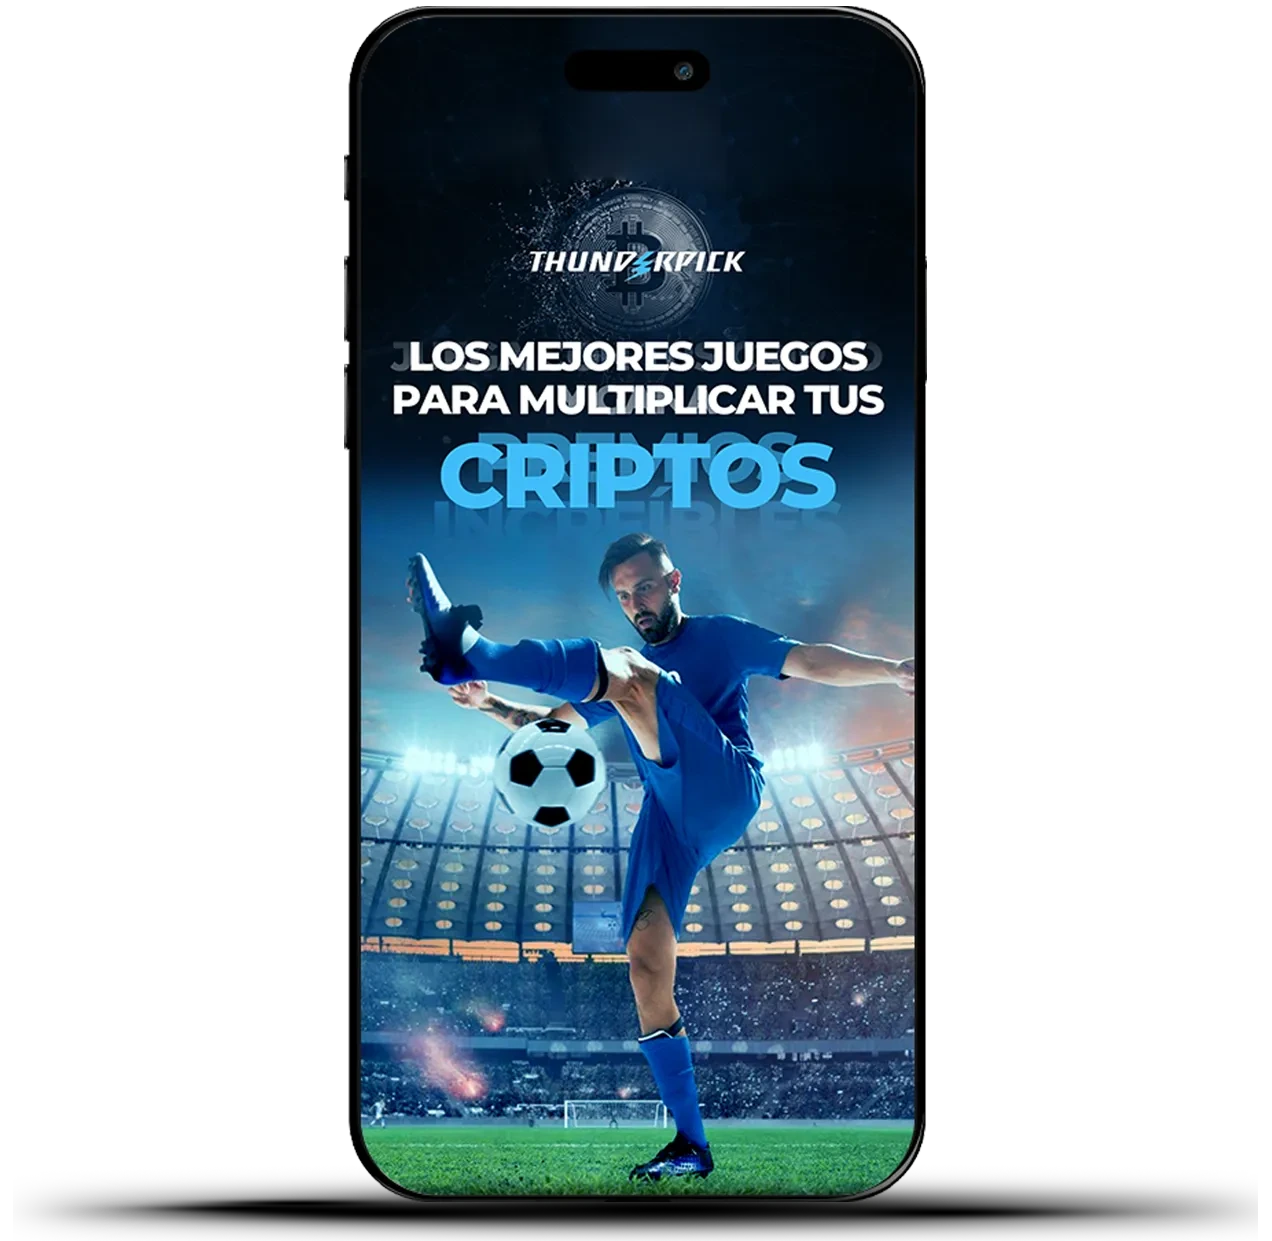
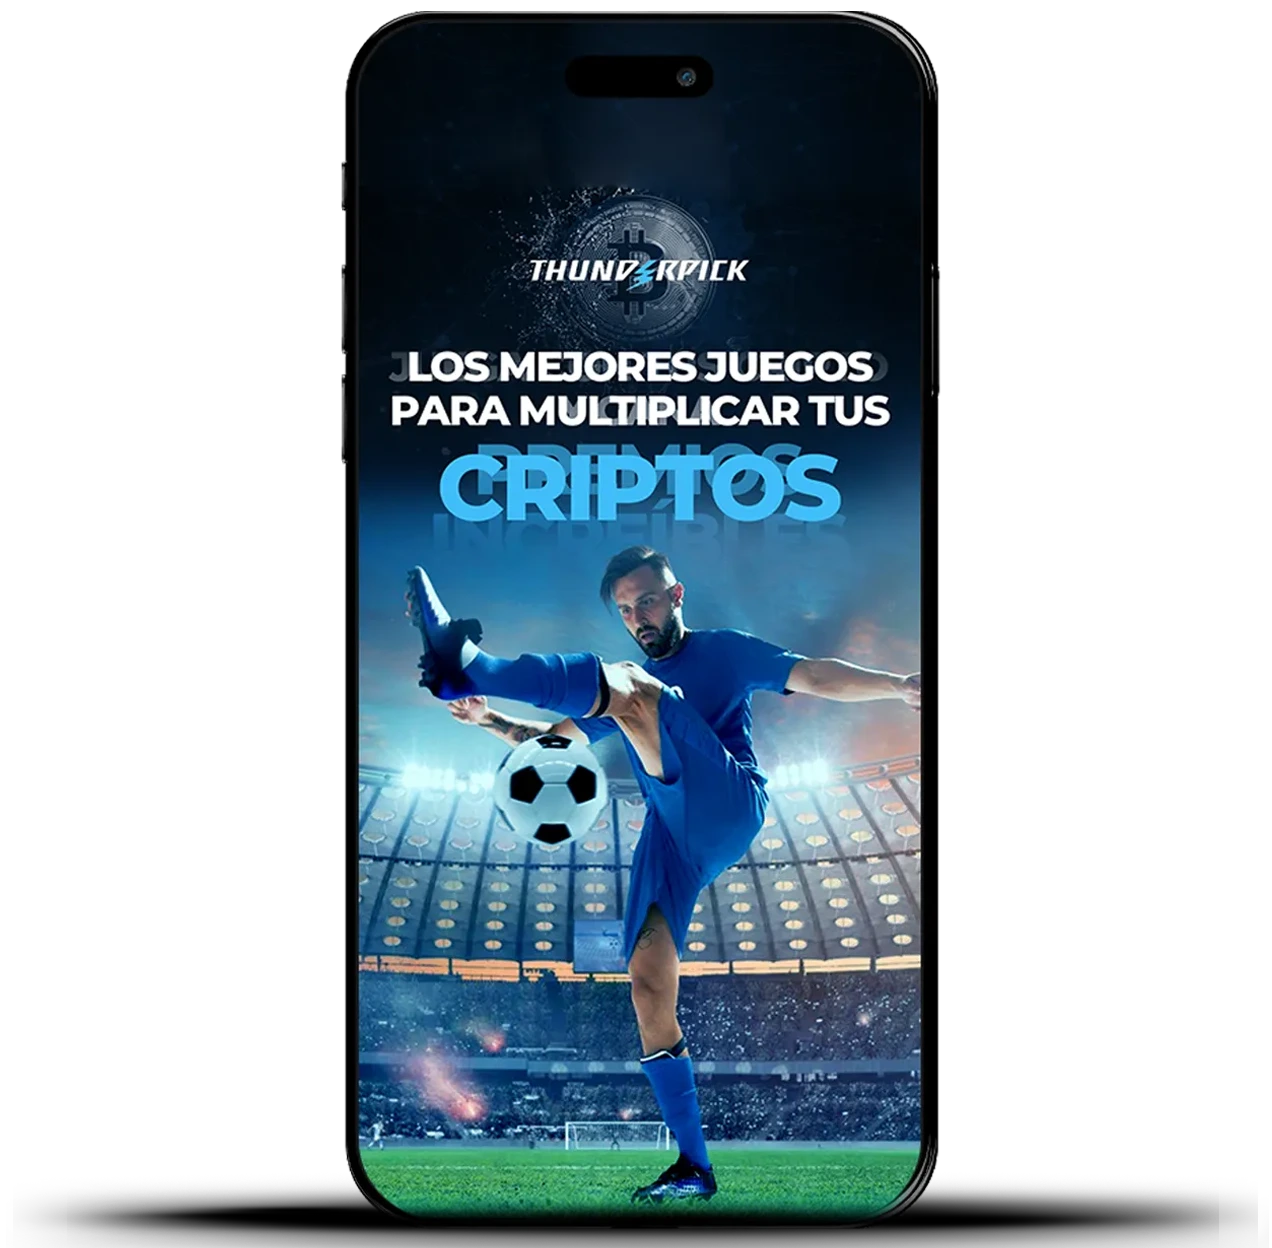
Miela slide 5 mobile: revert to previous large image layout (100dvh, offset, bottom margin) and keep wrapper hugging image; keep mobile assets

Changed region(s): [[0.092, 0.0306, 0.9505, 1.0], [0.2759, 0.0, 0.7052, 0.0919]]

diff --git a/src/pages/CreativeDesignerCaseDetail.jsx b/src/pages/CreativeDesignerCaseDetail.jsx
@@ -1269,20 +1269,23 @@ function CreativeDesignerCaseDetail() {
                       </div>
                     )}
                     {mielaSlide === 4 && (
-                      <div className={`w-full h-[40vh] flex items-center justify-center overflow-hidden pt-[50px] ${enterDirMiela === 'left' ? 'miela-enter-left' : enterDirMiela === 'right' ? 'miela-enter-right' : ''}`}>
-                        <div className="relative w-full h-full max-w-full max-h-full">
-                          {['/miela-5.1-mobile.webp','/miela-5.2-mobile.webp','/miela-5.3-mobile.webp'].map((src, idx) => (
-                            <img
-                              key={`miela5-m-${idx}`}
-                              src={src}
-                              alt={`Miela slide 5 mobile ${idx+1}`}
-                              decoding="async"
-                              loading={idx === 0 ? 'eager' : 'lazy'}
-                              className="absolute top-1/2 left-1/2 -translate-x-1/2 -translate-y-1/2 h-full w-auto max-w-full object-contain"
-                              style={{ opacity: miela5MobileFrame === idx ? 1 : 0, transition: 'opacity 1200ms ease-in-out', willChange: 'opacity' }}
-                              onError={(e) => { e.currentTarget.onerror = null; e.currentTarget.src = src }}
-                            />
-                          ))}
+                      <div className={`w-full h-[100dvh] flex items-start justify-center overflow-hidden pt-0 mb-[20%] ${enterDirMiela === 'left' ? 'miela-enter-left' : enterDirMiela === 'right' ? 'miela-enter-right' : ''}`} style={{ marginTop: '-80px' }}>
+                        <div className="w-full h-full flex items-start justify-center">
+                          {/* Dedicated image wrapper hugs the image body */}
+                          <div className="inline-grid h-full max-w-full place-items-center">
+                            {['/miela-5.1-mobile.webp','/miela-5.2-mobile.webp','/miela-5.3-mobile.webp'].map((src, idx) => (
+                              <img
+                                key={`miela5-m-${idx}`}
+                                src={src}
+                                alt={`Miela slide 5 mobile ${idx+1}`}
+                                decoding="async"
+                                loading={idx === 0 ? 'eager' : 'lazy'}
+                                className="col-start-1 row-start-1 h-full w-auto object-contain block"
+                                style={{ opacity: miela5MobileFrame === idx ? 1 : 0, transition: 'opacity 1200ms ease-in-out', willChange: 'opacity' }}
+                                onError={(e) => { e.currentTarget.onerror = null; e.currentTarget.src = src }}
+                              />
+                            ))}
+                          </div>
                         </div>
                       </div>
                     )}
